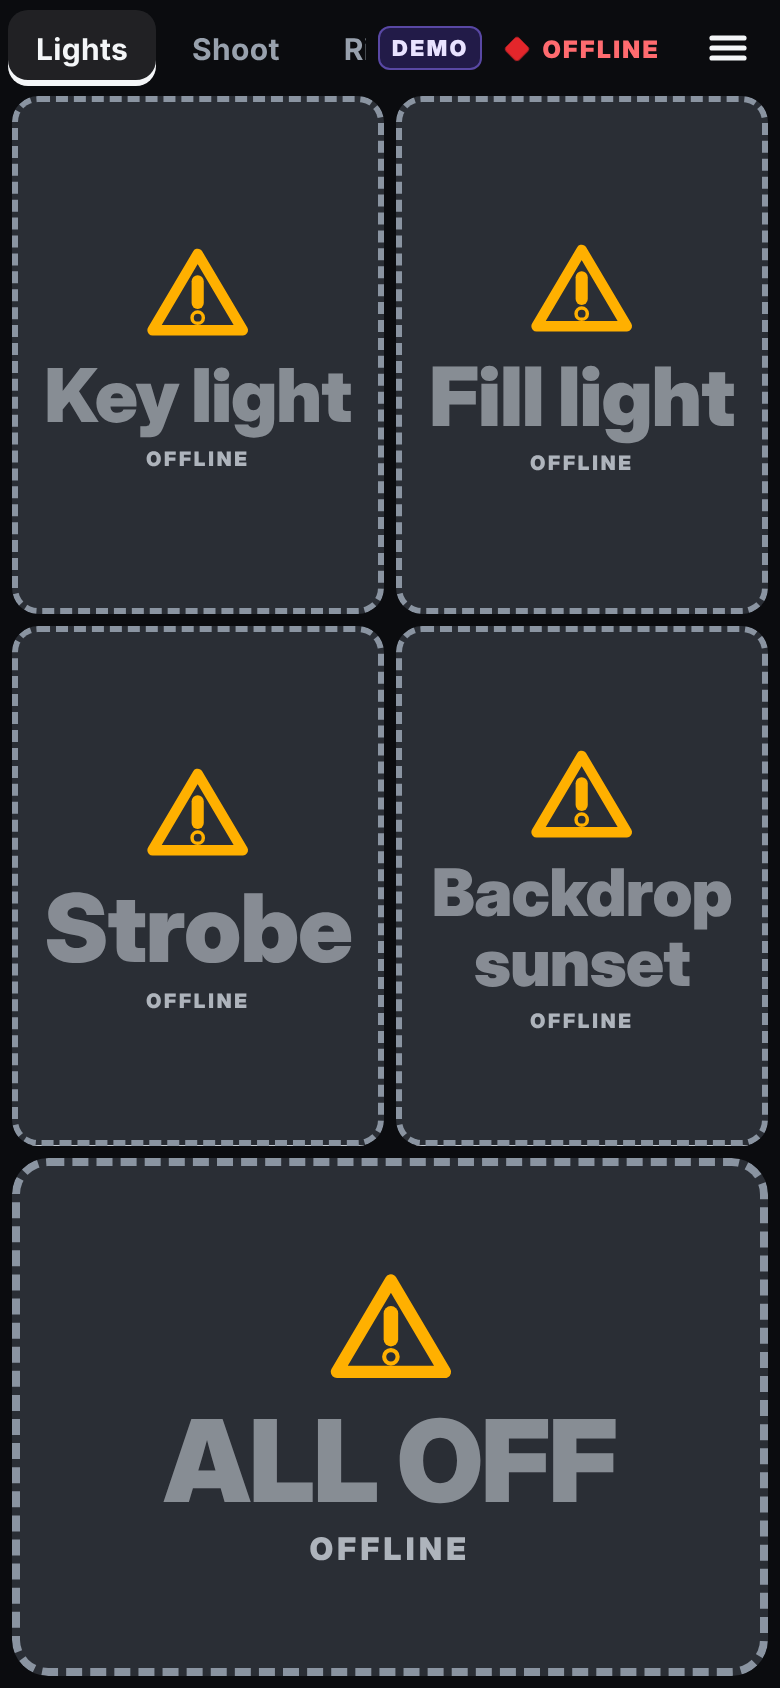
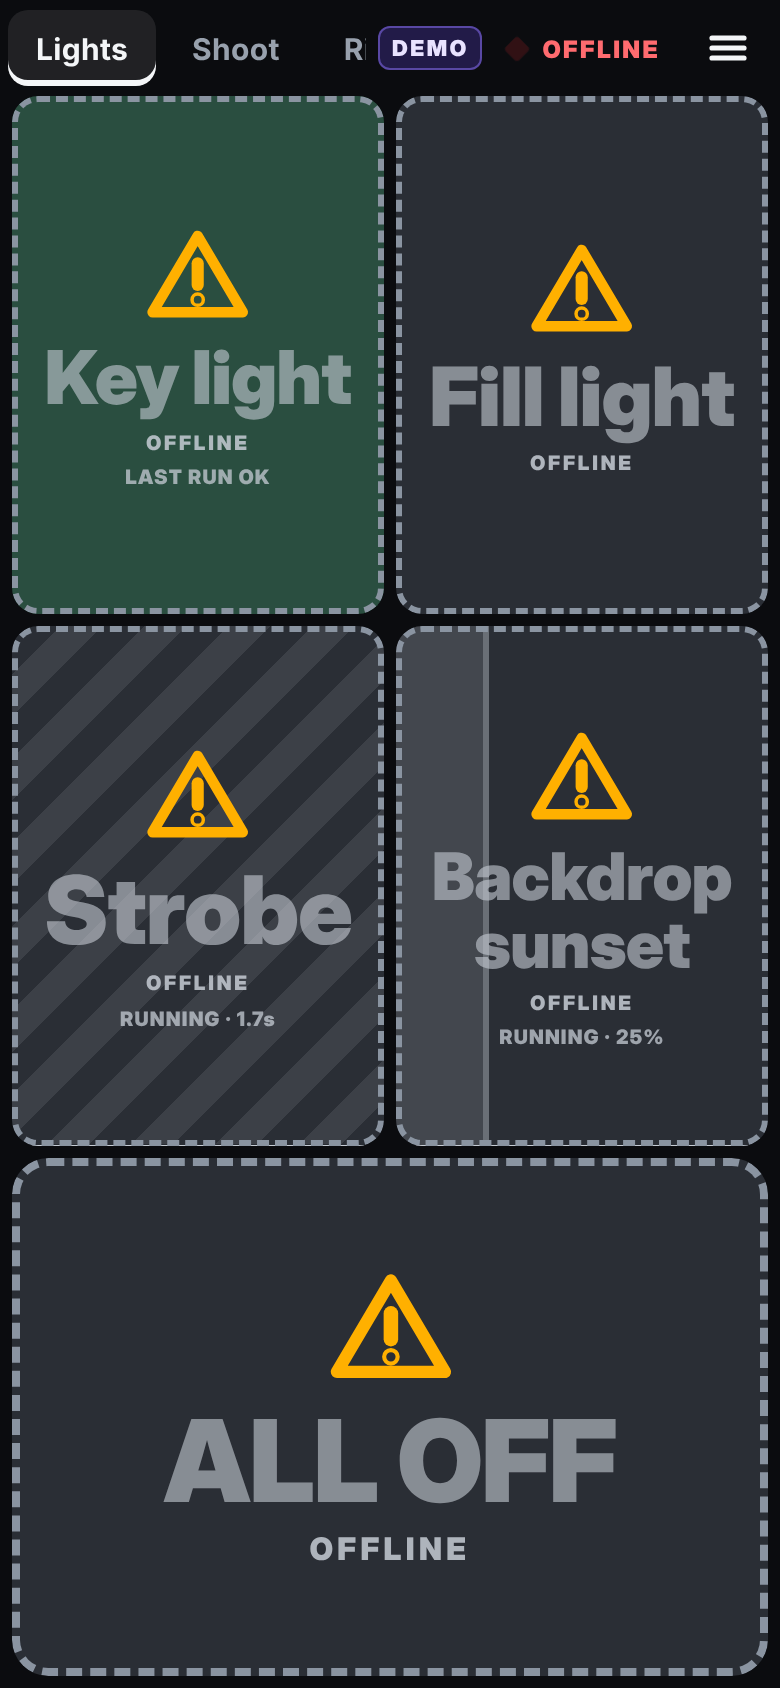
Web: edit mode, and fixes for the run-mode adversarial review
Verified checkpoint: typecheck clean, 171 bun tests, 174 Playwright tests (phone + desktop).
(Earlier WIP commits on this branch hold parts of this work.)

Edit mode (admin): WYSIWYG grid editing (tap empty cell to add, drag to move, corner to resize,
overlap refused), button editor (look, behavior, exec/shell action, key capture), pad management,
local draft with undo/redo, save with host validation errors mapped to fields, 409 conflict flow,
per-button run log with stdout/stderr tails and Run now.

Run-mode fixes:
- Dead or stale sockets dropped immediately; liveness probe; per-socket pending presses;
  no reconnect storms; OFFLINE shown within seconds instead of ~80 s
- Presses are sent at once or not at all (never late); NOT SENT vs NO RESPONSE; a lost ack
  shows the real outcome once the host reports it
- Holds decided by event timestamps (no phantom fires under main-thread stalls); confirm and
  trigger captured at pointer down; rolling-thumb takeover; tap > 1.5 s doesn't fire
- Keyboard/BLE keys fire on keydown; key holds survive config broadcasts
- Labels fit in short/landscape buttons; CJK labels break at phrases
- Demo backend matches host semantics (cancel grace, rate limit); BUSY/TRY AGAIN feedback
- Pair-again confirm (hidden in ?lock), HTTP state at startup, OFFLINE keeps last-known state,
  iOS haptic/keep-awake started inside gesture handlers

Claude-Session: https://claude.ai/code/session_01VFJgEf5Cb9vrKjmXAa6S2c

diff --git a/e2e/run-input.spec.ts b/e2e/run-input.spec.ts
@@ -161,8 +161,7 @@ test('lost ack: once the link is back, a press that did run shows what it did (n
   await expect(page.getByTestId('conn')).toHaveAttribute('data-status', 'offline');
   await page.waitForTimeout(100);
   await demo(page).run((b) => b.setOnline(true));
-  // Back within the run: RUNNING, then its SUCCESS (with the success buzz, never the failure one).
-  await expectVisual(page, 'tap', 'running');
+  // Back within the run: its SUCCESS (with the success buzz, never the failure one).
   await expectVisual(page, 'tap', 'success');
   await expect.poll(() => count(VIB.success)).toBe(1);
   expect(await count(VIB.failure)).toBe(0);
@@ -249,7 +248,7 @@ test('rolling thumb: a second contact on the same button carries the hold on whe
   await page.waitForTimeout(100);
   // The first contact lifts at ~250 ms, before holdMs (600): the second one still holds the button.
   await f.up(1);
-  await expectVisual(page, 'hold', 'running');
+  await expect.poll(presses).toEqual(['hold']);
   await f.up(2);
   await expectVisual(page, 'hold', 'success');
   expect(await presses()).toEqual(['hold']);
@@ -262,15 +261,15 @@ test('keyboard: auto-repeat is ignored, a double is two keydowns, confirm still 
   await page.keyboard.down('t');
   await page.keyboard.down('t');
   await page.keyboard.up('t');
-  await expectVisual(page, 'tap', 'running');
+  await expectVisual(page, 'tap', 'success');
   await page.keyboard.press('d');
   await expectVisual(page, 'double', 'ready');
   await page.keyboard.press('d');
-  await expectVisual(page, 'double', 'running');
+  await expect.poll(presses).toEqual(['tap', 'double']);
   await page.keyboard.press('c');
   await expectVisual(page, 'confirm', 'confirm');
   await page.keyboard.press('c');
-  await expectVisual(page, 'confirm', 'running');
+  await expectVisual(page, 'confirm', 'success');
   expect(await presses()).toEqual(['tap', 'double', 'confirm']);
 });
 
@@ -282,15 +281,13 @@ test('keyboard: a key held across a config broadcast does not fire again; a doub
   await expect(btn(page, 'slow')).toContainText('Slow 2');
   await page.evaluate(() => window.dispatchEvent(new KeyboardEvent('keydown', { key: 't', code: 'KeyT', bubbles: true })));
   await page.evaluate(() => window.dispatchEvent(new KeyboardEvent('keyup', { key: 't', code: 'KeyT', bubbles: true })));
-  await expectVisual(page, 'tap', 'running');
-  await page.waitForTimeout(300);
+  await expectVisual(page, 'tap', 'success');
   expect(await presses()).toEqual(['tap']);
   // First keydown of a double, a broadcast, the second keydown: still a double.
   await page.keyboard.press('d');
   await relabel(page, 'slow', 'Slow 3');
   await page.keyboard.press('d');
-  await expectVisual(page, 'double', 'running');
-  expect(await presses()).toEqual(['tap', 'double']);
+  await expect.poll(presses).toEqual(['tap', 'double']);
 });
 
 test('cancel: no hint and no cancel within 700 ms of the start (like the host); after that it cancels', async ({ page }) => {

diff --git a/e2e/layout.spec.ts b/e2e/layout.spec.ts
@@ -31,9 +31,14 @@ const STATES: ConfigInput = {
   ],
 };
 
-/** Each visible item of each button's content that sticks out of the content box (or is cut short). */
-const overflows = (page: Page) =>
-  page.evaluate(() =>
+/**
+ * Each visible item of each button's content that sticks out of the content box (or is cut short),
+ * measured at rest: entrance animations (the ✗ shaking in at 108%) finish first.
+ */
+const overflows = async (page: Page) => {
+  // (Not the drain bars: those run as long as resultHoldMs.)
+  await page.evaluate(() => Promise.all(document.getAnimations().filter((a) => Number(a.effect?.getComputedTiming().endTime) <= 2000).map((a) => a.finished.catch(() => {}))));
+  return page.evaluate(() =>
     [...document.querySelectorAll<HTMLElement>('.bp-btn')].flatMap((b) => {
       const c = b.querySelector('.bp-content')!;
       const box = c.getBoundingClientRect();
@@ -43,9 +48,10 @@ const overflows = (page: Page) =>
           const r = k.getBoundingClientRect();
           return r.left < box.left - 1 || r.right > box.right + 1 || r.top < box.top - 2 || r.bottom > box.bottom + 2 || k.scrollWidth > k.clientWidth + 2;
         })
-        .map((k) => `${b.dataset.visual}:${b.querySelector('.bp-label')?.textContent} → ${k.className}`);
+        .map((k) => `${b.dataset.visual}:${b.querySelector('.bp-label')?.textContent} → ${k.getAttribute('class')}`);
     }),
   );
+};
 
 for (const vp of [
   { width: 844, height: 390 },

diff --git a/src/web/dev/Gallery.tsx b/src/web/dev/Gallery.tsx
@@ -44,7 +44,7 @@ function tiles(now: number): [string, ButtonVM][] {
     ['RUNNING 42%', vmFor(b('progress', 'Backdrop sunset', '#7c3aed'), { visual: 'running', startedAt: now - 2100, progress: 42, status: 'fading in' })],
     ['SUCCESS', vmFor(b('success', 'Upload selects', '#2f6fde'), { visual: 'success', startedAt: now - 2300, endedAt: now - 120, text: '12 photos uploaded', resultHoldMs: LONG })],
     ['FAILURE', vmFor(b('failure', 'Card backup', '#f97316'), { visual: 'failure', startedAt: now - 1500, endedAt: now - 120, title: 'EXIT 3', text: 'card full: 0 bytes free', resultHoldMs: LONG })],
-    ['OFFLINE · WAS RUNNING', vmFor(b('offrun', 'Fog machine', '#7c3aed'), { visual: 'offline', under: 'running', startedAt: now - 12_300 })],
+    ['WAS RUNNING', vmFor(b('offrun', 'Fog machine', '#7c3aed'), { visual: 'offline', under: 'running', startedAt: now - 12_300 })],
     ['NO RESPONSE', vmFor(b('noresp', 'Fill light', '#2f6fde', { trigger: 'tap' }), { visual: 'failure', startedAt: now, endedAt: now - 120, title: 'NO RESPONSE', text: 'The host didn’t answer in 2 s', resultHoldMs: LONG })],
     ['BUSY', vmFor(b('busy', 'Render preview', '#0891b2'), { visual: 'running', startedAt: now - 8200, flash: { kind: 'busy', at: now } })],
     ['OFFLINE', vmFor(b('offline', 'Mark clip', '#2f6fde', { trigger: 'tap' }), { visual: 'offline' })],

diff --git a/src/web/lib/keepawake.ts b/src/web/lib/keepawake.ts
@@ -66,8 +66,9 @@ function playNow() {
 }
 
 /**
- * Until the screen is held: try again inside every user gesture. On every one, not just the first:
- * a touch's pointerdown isn't a user activation yet (its pointerup is).
+ * Until the screen is held (or keeping it awake is switched off): try again inside every user
+ * gesture. On every one, not just the first: a touch's pointerdown isn't a user activation yet
+ * (its pointerup is).
  */
 function armGesture() {
   if (gestureArmed) return;
@@ -78,7 +79,7 @@ function armGesture() {
     void acquire();
   };
   unsubscribe = awake.subscribe((s) => {
-    if (!s.active) return;
+    if (!s.active && wantAwake()) return;
     gestureArmed = false;
     for (const t of ACTIVATION_EVENTS) window.removeEventListener(t, go, true);
     unsubscribe();

diff --git a/src/web/run/controller.ts b/src/web/run/controller.ts
@@ -130,7 +130,11 @@ export class ButtonController {
   /** Host state changed: settle SENDING, resolve an unanswered press, cue when our run finishes. */
   onHost(host: RunState): void {
     const s = this.l.sending;
-    if (s && host.runId > s.baseRunId) this.patch({ sending: null });
+    if (s && host.runId > s.baseRunId) {
+      // The run it started showed up (before its ack, if the ack is late): it's ours either way.
+      if (!s.acked) this.mine = s.baseRunId;
+      this.patch({ sending: null });
+    }
     const o = this.outcome;
     if (o && Date.now() > o.until) this.outcome = null;
     else if (o && host.runId > o.baseRunId) {

diff --git a/e2e/link.spec.ts b/e2e/link.spec.ts
@@ -25,7 +25,7 @@ const CONFIG: ConfigInput = {
       buttons: [
         { id: 'tap', label: 'Tap', x: 0, y: 0, trigger: 'tap', resultHoldMs: 4000, action: sh('echo ran >> ran.log; echo tapped') },
         { id: 'slow', label: 'Slow', color: '#0891b2', x: 1, y: 0, trigger: 'tap', action: sh("echo '@status busy'; sleep 30") },
-        { id: 'quick', label: 'Quick', color: '#db2777', x: 0, y: 1, trigger: 'tap', resultHoldMs: 500, action: sh('echo quick') },
+        { id: 'quick', label: 'Quick', color: '#db2777', x: 0, y: 1, trigger: 'tap', resultHoldMs: 2000, action: sh('echo quick') },
       ],
     },
   ],

diff --git a/e2e/demo.spec.ts b/e2e/demo.spec.ts
@@ -115,7 +115,7 @@ test('keyboard: a mapped key fires on keydown, hold and tap buttons alike (click
   await expectVisual(page, 'hold', 'running');
   await expectVisual(page, 'hold', 'success');
   await page.keyboard.press('t');
-  await expectVisual(page, 'tap', 'running');
+  await expectVisual(page, 'tap', 'success');
 });
 
 test('multi-touch: two buttons held at once both fire', async ({ page, hasTouch }) => {
